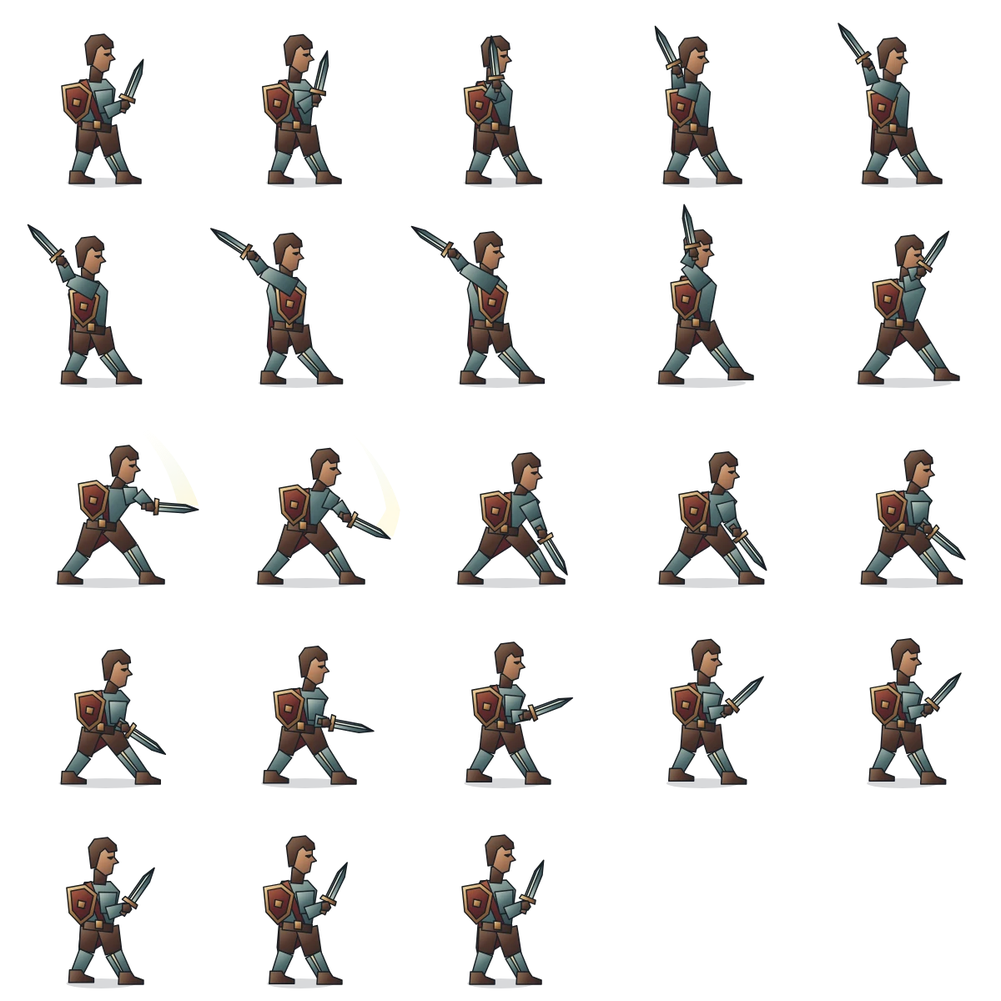
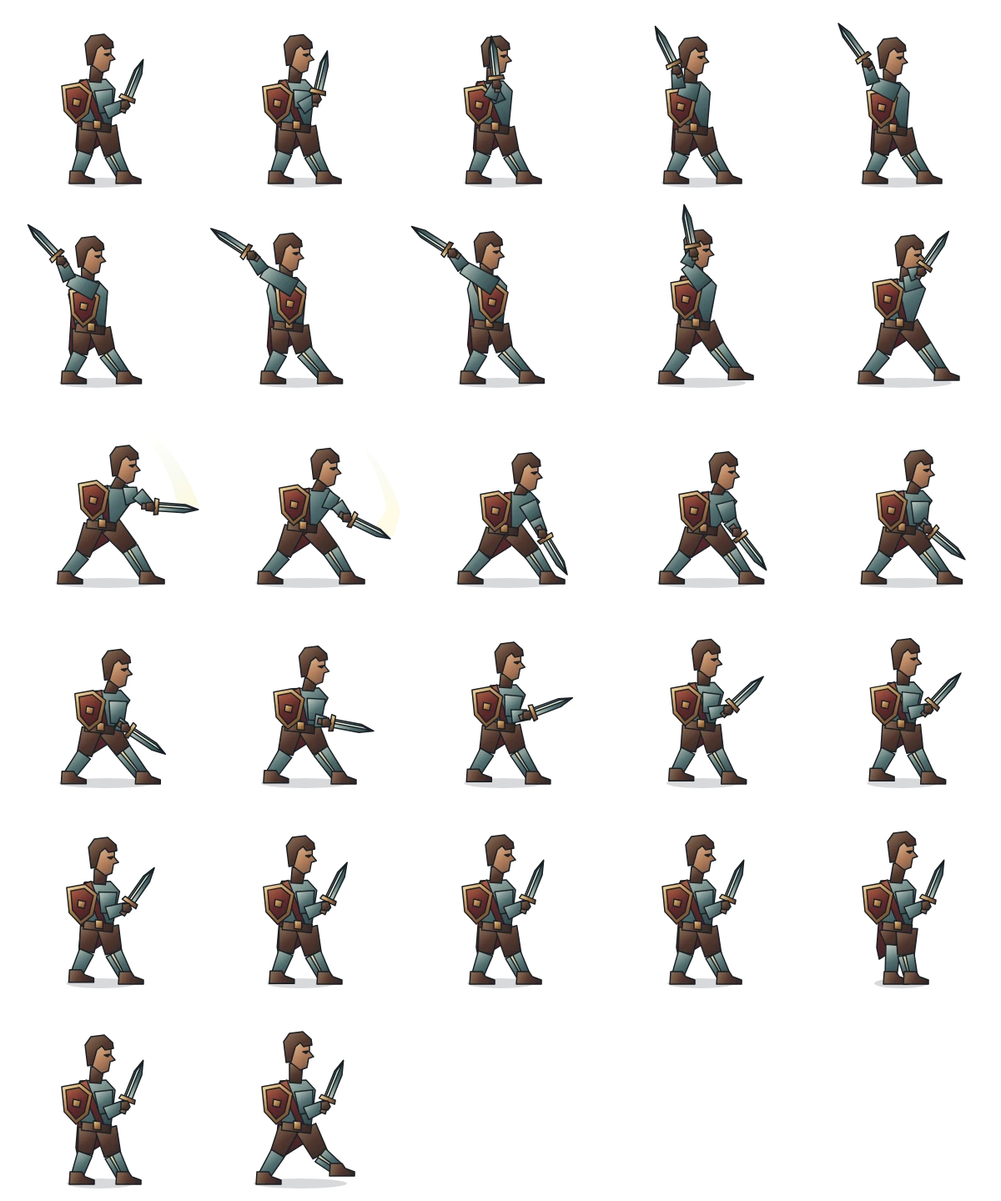
Animate warrior approach and retreat strides

diff --git a/index.html b/index.html
@@ -8,4 +8,4 @@
 <div class="teacher-grid"><section id="teacher-focus-panel" class="teacher-box"><span class="eyebrow">TOPICS & DEPTH</span><h3 id="selected-subject-title">HTML & CSS</h3><label>Bank question depth<select id="teacher-difficulty"><option value="beginner">Introductory</option><option value="intermediate" selected>Introductory + applied</option><option value="advanced">All depths, including challenge</option></select></label><fieldset><legend>Topics within this subject</legend><div id="teacher-topics"></div></fieldset><p class="small">Topics and depth filter the available questions. Use Add to keep your current draft, or Combine to start over.</p><details><summary>Pick individual questions from the selected banks</summary><div id="bank-question-list"></div></details><input id="use-bank" type="checkbox" hidden><div id="generation-area"></div><details id="teacher-import-panel" class="import-options"><summary>Use my own questions · PDF, Word, text, CSV or JSON</summary><p>Import a readable PDF, Word .docx or text file, then review the extracted questions and choose their correct answers. CSV and JSON question sets remain supported. Scanned PDFs, photographs and older .doc files are not supported in this version.</p><p class="small">Documents open a review step where you can replace the draft or add questions. CSV/JSON sets open a validated preview. Add to the assignment or save a copy without replacing the draft.</p><div class="preset-buttons"><button id="import-lesson">Load question file</button><button id="question-template">Download CSV template</button></div><label>Selected import file<input type="file" id="teacher-file" accept=".pdf,.docx,.txt,.csv,.json"></label><button id="read-selected-file">Read selected file</button><p class="small">Document importer v1.1 · Choose a file, then click Read selected file if it does not open automatically.</p><p id="import-status" role="status" aria-live="polite"></p></details></section>
 <section id="teacher-review-panel" class="teacher-box assignment-draft"><span class="eyebrow">3 · REVIEW YOUR ASSIGNMENT</span><label>Assignment name<input id="lesson-name" maxlength="100" value="HTML & CSS practice"></label><strong id="lesson-count"></strong><p id="assignment-source" class="small"></p><p id="teacher-message" role="status" aria-live="polite"></p><details open><summary>Questions, answers & explanations</summary><ol id="lesson-preview"></ol></details><label>Battle difficulty<select id="teacher-pace"><option value="practice">Gentle practice</option><option value="standard" selected>Standard</option><option value="challenge">Challenging battles</option></select></label><div class="preset-buttons"><button id="save-lesson">Save draft on this device</button><button id="export-lesson">Download this set</button><button id="launch-lesson" class="primary">Test this assignment</button></div></section></div>
 <details id="teacher-writing-panel" class="teacher-box"><summary>Write or edit an individual question</summary><div id="custom-list"></div><form id="custom-form"><label>Subject<select id="custom-topic"><option>HTML</option><option>CSS</option><option>Computer basics</option><option>Algorithms</option><option>Programming</option><option>Data</option><option>Networks</option><option>Cybersecurity</option><option>Computing & society</option><option>AI literacy</option><option>3D design</option><option>Math</option></select></label><label>Question<textarea id="custom-text" required maxlength="1000"></textarea></label><div class="choice-inputs"><label>Answer A<input id="choice-0" required maxlength="300"></label><label>Answer B<input id="choice-1" required maxlength="300"></label><label>Answer C<input id="choice-2" required maxlength="300"></label><label>Answer D<input id="choice-3" required maxlength="300"></label></div><label>Correct answer<select id="custom-correct"><option value="0">A</option><option value="1">B</option><option value="2">C</option><option value="3">D</option></select></label><label>Explanation<textarea id="custom-explanation" maxlength="1500"></textarea></label><button id="add-question" type="submit">Add question to draft</button></form></details></section><section id="prologue" class="screen" hidden><span id="player-story-heading" class="eyebrow">YOUR ADVENTURE · CHAPTER 1</span><h1>The Last Light<br>of Asterfall</h1><div id="prologue-party" class="story-party"></div><div id="prologue-text"></div><div id="hero-creation"></div><button id="begin-chapter" class="primary">Begin the Emerald Road →</button></section><section id="arrival" class="screen" hidden><span id="arrival-chapter" class="eyebrow">CHAPTER 1 · A NEW DANGER</span><h2 id="arrival-title"></h2><div id="arrival-scene" class="cinematic-scene"><div id="arrival-party" class="story-party"></div></div><div class="narrative-panel"><strong id="arrival-speaker"></strong><p id="arrival-narration"></p><p id="arrival-danger" class="danger-note"></p><button id="begin-encounter" class="primary" disabled>Face the encounter →</button></div></section><section id="journey" class="screen" hidden><span class="eyebrow">THE ROAD OPENS</span><h2 id="journey-title"></h2><div id="journey-scene" class="cinematic-scene"><div id="journey-party" class="story-party"></div></div><p id="journey-narration" class="narrative-panel" role="status"></p></section><section id="road" class="screen" hidden><div id="road-scene"><div class="road-vignette"></div><div id="road-party" class="story-party"></div><div class="road-caption"><span class="eyebrow">ON THE ROAD</span><h2 id="road-destination"></h2><p id="road-narration" role="status"></p></div></div></section><section id="world" class="screen" hidden><div class="battle-heading"><div><span class="eyebrow">CHAPTER I · EXPLORE</span><h2 id="world-title">Chapter 1 · Forest Path</h2></div><span id="world-stats"></span></div><label class="chapter-navigation">Region<select id="chapter-picker"></select></label><div id="map-viewport" class="map-scroll"><div id="world-overview" aria-label="Region overview"><div id="overview-view"></div></div><div id="forest-map"><svg viewBox="0 0 100 100" preserveAspectRatio="none" aria-hidden="true"><path d="M14 78L36 54L57 30L81 17M14 78L35 86M36 54L15 36M36 54L57 77M57 30L69 51"/></svg><div id="mouse-destination" hidden aria-hidden="true"></div><div id="boss-route-gate" hidden><span>⚿</span><strong id="boss-gate-label">Sealed passage</strong></div><div id="map-nodes"></div><div id="forest-patrol" class="patrol-mob" hidden aria-label="Wandering briar imp"></div><div id="map-party" class="map-party" aria-label="Your party"></div></div></div><div id="world-controls" aria-label="Map controls and information"><div id="world-control-copy"><p id="world-objective"></p><div id="explore-tip" role="status">Click a path to walk, or use WASD / arrow keys.</div><button id="pinned-quest" hidden aria-label="Pinned quest; open quest board"></button></div><div id="explore-pad" aria-label="Walking controls"><button data-direction="up" id="walk-up" aria-label="Walk north">▲</button><button data-direction="left" id="walk-left" aria-label="Walk west">◀</button><button data-direction="down" id="walk-down" aria-label="Walk south">▼</button><button data-direction="right" id="walk-right" aria-label="Walk east">▶</button></div><div class="map-toolbar"><span id="world-style" hidden aria-hidden="true"></span><button id="open-map-party">Party</button><button id="open-skill-paths">Skills</button><button id="open-quest-board">Quests</button><button id="world-changes">Changes</button><button id="crypt-interact" hidden>Search nearby · E</button><span id="crypt-map-progress" hidden role="status"></span><span id="map-travel-status" role="status" aria-live="polite"></span></div></div><dialog id="map-dialog" aria-label="Map event and party"><button id="close-map-dialog" class="map-dialog-close">Back to map ×</button><nav id="camp-shortcuts" aria-label="Camp menu sections"><button id="camp-go-party">Party</button><button id="camp-go-roster">Companions</button><button id="camp-go-equipment">Equipment</button><button id="camp-go-skills">Skills</button><button id="camp-go-forge">Forge</button><button id="camp-go-quests">Quests</button></nav><div class="world-grid"><section id="map-location-panel" class="teacher-box"><h3 id="location-name">Choose your path</h3><p id="location-copy">Select an open destination on the map. Optional paths offer supplies and upgrades.</p><button id="travel" hidden class="primary" disabled>Travel here →</button><p id="world-message" role="status"></p><div id="merchant-stock" hidden></div><div id="moonwell-choices" hidden><p>A forest spirit is bound inside the Moonwell. What will you do?</p><button id="moonwell-blessing">Accept its blessing · full heal + potion</button><button id="moonwell-free">Free the spirit · partial heal + help against the Guardian</button></div></section><section id="map-party-panel" class="teacher-box"><h3>Your party</h3><section id="camp-quest-board"></section><div id="party-roster"></div><section id="skill-paths" aria-labelledby="skill-paths-heading"></section><section id="equipment-inventory"></section><section id="equipment-forge"></section><div id="party-talents"></div><div id="world-party"></div><div id="loot-inventory"></div><div class="preset-buttons"><button id="camp-rest">Rest at camp</button><button id="map-potion">Use healing potion</button></div><p id="pack-summary"></p><details><summary>Quest journal & treasures</summary><div id="quest-journal"></div></details></section></div></dialog></section><section id="battle" class="screen" hidden><div class="battle-heading"><div><span id="battle-chapter" class="eyebrow">CHAPTER 1</span><h2 id="encounter-name"></h2></div><div id="wallet"></div></div><div id="trail" aria-label="Chapter progress"></div><div class="battle-help"><span>Your hero’s moves appear each turn. Choose one, then answer to act.</span></div><div id="arena"><div id="trial-ambient" aria-hidden="true"></div><aside id="trial-monitor" hidden><span id="trial-performance" role="status">Measuring…</span><label>Effects<select id="trial-quality"><option value="standard">Standard</option><option value="light">Light</option></select></label><button id="trial-report">Download results</button></aside><div id="enemy-warning" role="status"></div><aside id="enemy-read" hidden role="status" aria-live="polite" aria-label="Enemy intentions"></aside><div id="boss-status" hidden role="status"></div><div id="boss-phase-announcement" aria-live="polite"></div><details id="battle-insight"><summary>Enemy weaknesses & power</summary><div id="enemy-traits" role="status"></div><div id="combat-readiness" role="status"></div><p id="enemy-attack-details"></p></details><div class="mist"></div><div id="heroes"></div><div id="enemy"><div id="enemy-art"></div><div class="enemy-label"><strong id="enemy-name"></strong><div class="bar"><i id="enemy-bar"></i></div><span id="enemy-hp"></span></div></div><section id="question-panel"><div class="question-top"><span id="school" class="eyebrow"></span><span id="turn"></span></div><h3 id="question"></h3><div id="answers"></div><p id="feedback" role="status" aria-live="polite"></p><button id="next-question" hidden class="primary">Next question →</button></section><section id="encounter-objective" hidden aria-label="Encounter objective"><strong id="objective-title"></strong><span id="objective-progress" role="status" aria-live="polite"></span><small id="objective-hint"></small></section><img id="objective-prop" hidden alt=""><div id="objective-event" role="status" aria-live="polite"></div><div id="effects" aria-hidden="true"></div><div id="hero-command-menu" hidden role="dialog" aria-label="Hero actions"><button id="hero-menu-close" aria-label="Close hero actions">×</button><strong id="hero-menu-title"></strong><p id="hero-menu-status"></p><div id="hero-menu-actions"></div><details id="hero-action-guide"><summary>Move details &amp; hero bonuses</summary><p id="hero-menu-full-status"></p><p id="hero-role-benefit" class="hero-role-benefit"></p><p id="hero-path-status" class="skill-battle-status" hidden></p><div id="hero-menu-descriptions"></div></details><p id="hero-menu-note" role="status"></p></div><div id="party"></div><div id="battle-plan" role="status" aria-live="polite"></div></div><section id="enemy-defense" hidden aria-label="Incoming attack"><strong id="defense-title"></strong><p id="defense-message" role="status"></p><div id="defense-history" role="status"></div><button id="attack-cue" type="button" aria-label="Defense timing"><svg class="defense-rings" viewBox="0 0 140 140" aria-hidden="true"><circle data-ring="target" cx="70" cy="70" r="30.6" stroke-width="12.4"/><circle data-ring="perfect" cx="70" cy="70" r="27.6" stroke-width="4"/><circle data-ring="moving" cx="70" cy="70" r="64"/></svg><span id="attack-cue-action" aria-hidden="true"></span><strong id="attack-cue-phase" class="defense-sr-only">Watch the ring</strong></button><div id="block-meter" hidden role="progressbar" aria-label="Block timing" aria-valuemin="0" aria-valuemax="100" aria-valuenow="0"><span class="guard-zone"></span><span class="perfect-zone"></span><i id="block-marker"></i></div><button id="block-button" class="primary">↓ Duck</button><button id="jump-button">↑ Jump</button><button id="dodge-button">← Dodge</button><button id="parry-button">→ Parry</button><button id="take-hit" hidden>Take the hit</button></section><details id="battle-tactics" hidden><summary>Party tactics & healing</summary><section id="battle-commands"><div><strong id="combat-intent"></strong><p id="focus-status"></p></div><label>Acting hero<select id="acting-hero"></select></label><label>Choose your action<select id="combat-action"><option value="attack">Basic attack · gain 1 focus</option><option value="skill">Hero skill · costs 2 focus</option><option value="special">Signature attack · 2 focus</option><option value="relic">Relic power · 3 focus</option><option value="team">Role teamwork · 2 focus</option><option value="path-0">Path ability 1</option><option value="path-1">Path ability 2</option><option value="path-2">Path ability 3</option><option value="objective">Encounter objective · no attack</option><option value="guard">Guarding strike · prepare a shield</option><option value="channel">Channel · gain 2 focus, no attack</option></select></label><label>Healing target<select id="healing-target"></select></label><button id="battle-potion">Use healing potion</button></section></details><details id="enemy-story" class="enemy-story"><summary>About this danger</summary><p id="battle-narration"></p></details></section>
-<section id="result" class="screen" hidden><span id="result-eyebrow" class="eyebrow"></span><h1 id="result-title"></h1><p id="result-copy"></p><div id="reward"></div><section id="rune-forge" class="teacher-box" hidden><h3>Rune forge · improve your party</h3><p id="rune-balance"></p><p class="small">Power adds +3 attack damage per rank. Vitality adds +8 maximum HP per rank. Each hero can reach rank 3 in each. Ranks cost 1, 2, then 3 runes.</p><div id="rune-upgrades"></div></section><button id="advance" class="primary"></button><button id="menu">Title screen</button></section><footer>The Last Light of Asterfall <span class="release-label">Open exploration · Your map markings</span><span id="save-status">Saves on this device</span></footer></main><script src="region-loader.js?v=0c1b4c66908d"></script><script src="boot.js?v=2a7795114682"></script><script src="questions.js?v=8632b32758e3"></script><script src="cs-bank.js?v=d2e59700a057"></script><script src="teacher-subjects.js?v=915b0bc4735e"></script><script src="express-sets.js?v=c3aa729326d0"></script><script src="characters.js?v=45515ceb709f"></script><script src="music-data.js?v=487d750dea2d"></script><script src="campaign.js?v=e2018ea8e5d0"></script><script src="story.js?v=a82fd3d169ac"></script><script src="tactics.js?v=b10bbf7b0129"></script><script src="journey.js?v=7cd085f56374"></script><script src="map-routes.js?v=3dc1f2456ffc"></script><script src="practice.js?v=7539620934b0"></script><script src="enemy-animations.js?v=189d1191b2e2"></script><script src="defense.js?v=425953c6013b"></script><script src="coast.js?v=2c587ebb2ea6"></script><script src="exploration.js?v=ff911e9b8137"></script><script src="visual-world.js?v=79c0b4aebe7a"></script><script src="visual-trial.js?v=4a3962d13f73"></script><script src="party-trail.js?v=3f78f121bcf7"></script><script src="defense-animations.js?v=7ea345959766"></script><script src="mouse-navigation.js?v=31a32fad2cc4"></script><script src="attack-styles.js?v=fcfbab3ffdf9"></script><script src="relic-animations.js?v=886804c2c7d5"></script><script src="loot.js?v=4580ed30161d"></script><script src="forest-world.js?v=219b53a0c5f1"></script><script src="forest-renderer.js?v=f5eb36ab3cac"></script><script src="forest-art.js?v=28b284b43be8"></script><script src="region-art.js?v=9cb63921c67f"></script><script src="dungeon.js?v=b122af619a06"></script><script src="combat-depth.js?v=b4e4b5a9f190"></script><script src="boss-chapters.js?v=2fa8e4f431cb"></script><script src="enemy-expansion.js?v=9f09e05a10b8"></script><script src="combat-timing.js?v=2d6a9a0d7a5b"></script><script src="roster.js?v=1691b7262e9a"></script><script src="progression.js?v=8d88fea54259"></script><script src="equipment-loot.js?v=13a52db45b0a"></script><script src="quest-board.js?v=61f7c69088ef"></script><script src="sound-data.js?v=8743f47e4a63"></script><script src="recorded-audio.js?v=human-sword1"></script><script src="frostmine.js?v=1114d7eb8138"></script><script src="story-pacing.js?v=f117b87ef819"></script><script src="painted-thorin-data.js?v=2d96a5c1d2c6"></script><script src="painted-brom-data.js?v=d9845c590c9c"></script><script src="painted-lira-data.js?v=ec4942974537"></script><script src="painted-seren-data.js?v=accde54f76db"></script><script src="painted-travel-data.js?v=7774666a7dfe"></script><script src="hero-art-trial.js?v=1858f324e576"></script><script src="combat-presentation.js?v=human-sword1"></script><script src="side-adventures.js?v=b7eaf8b43590"></script><script src="map-variety.js?v=ada3d43e040c"></script><script src="side-guardian-data.js?v=c33bf7e05de9"></script><script src="side-guardians.js?v=0e45e62c421c"></script><script src="interactive-exploration.js?v=a71caeb81eb9"></script><script src="equipment-effects.js?v=126b974aac12"></script><script src="party-teamwork.js?v=3d7555189fa3"></script><script src="encounter-objectives.js?v=2bd2fa3cb820"></script><script src="world-consequences.js?v=697c898989f4"></script><script src="combat-telegraph.js?v=3878dd89dacd"></script><script src="rootbound-exploration.js?v=e318c75a0033"></script><script src="open-painted-maps.js?v=00852b6e20f8"></script><script src="highlands.js?v=b0c8c05f4ea4"></script><script src="painted-boundaries.js?v=9258f5ab6d86"></script><script src="roaming-world.js?v=4631d19dc45d"></script><script src="search-sites.js?v=c5b093689643"></script><script src="item-art.js?v=8a8f2fc47dd3"></script><script src="party-v3-data.js?v=ceb710f3b44f"></script><script src="human-heroes-data.js?v=2b3b2de9892b"></script><script src="party-upgrade.js?v=f121eedcc70c"></script><script src="layered-foliage.js?v=3e0177b3a4d1"></script><script src="forest-discoveries.js?v=7f23651df4ea"></script><script src="regional-discoveries.js?v=f07880b85259"></script><script src="role-mastery.js?v=61caf8ccf63a"></script><script src="skill-paths.js?v=e796c71edf3d"></script><script src="skill-path-effects.js?v=9b9661016aa7"></script><script src="enemy-behavior.js?v=de61d48184dd"></script><script src="outdoor-geography.js?v=b6c748f7c16e"></script><script src="side-geography-data.js?v=cc8840e0c8d4"></script><script src="side-geography.js?v=eee0dd571d34"></script><script src="exploration-layout.js?v=4b320e2ca6f6"></script><script src="authored-floors.js?v=a372257362b2"></script><script src="exploration-polish.js?v=2981de97faa8"></script><script src="integrated-map-art.js?v=c755711d52ea"></script><script src="equipment-appearance.js?v=a852935156e6"></script><script src="navigation-floors.js?v=786c5b691c48"></script><script src="progress-storage.js?v=20261031-audit1"></script><script src="journey-guide.js?v=ecabe6818ca1"></script><script src="visual-polish.js?v=7e7f1fbb2b00"></script><script src="battle-refresh.js?v=62aeae25d1b6"></script><script src="battle-hud.js?v=f3bb8359f0db"></script><script src="math-models.js?v=2feb4d6e9fb8"></script><script src="teacher-reports.js?v=356eeefd174d"></script><script src="exploration-enrichment.js?v=7cb03af2e431"></script><script src="skill-tree-view.js?v=f2be7c3b5df8"></script><script src="forest-adventure.js?v=fbea32dadb30"></script><script src="forest-direction.js?v=b9124928a05d"></script><script src="map-traversal.js?v=b08efe2ddf74"></script><script src="route-guide.js?v=d3cd6d0a77ec"></script><script src="forest-visuals.js?v=3b2eae880b7a"></script><script src="forest-payoffs.js?v=83d55c9adffe"></script><script src="forest-characters.js?v=9ed7bb399edc"></script><script src="forest-atmosphere.js?v=dc53046e9350"></script><script src="forest-heroes.js?v=4c736ef48a4d"></script><script src="forest-enemy-tells.js?v=02377254db7f"></script><script src="forest-patrols.js?v=491e29f3b2ed"></script><script src="forest-fast-play.js?v=1b0039825a4e"></script><script src="built-map-preview.js?v=47319f655979"></script><script src="wildwood-layout.js?v=6babf453461f"></script><script src="wildwood-board.js?v=8a247e796550"></script><script src="human-sword-attack.js?v=1"></script><script src="game.js?v=human-sword1"></script><script src="teacher.js?v=df44ff2cd450"></script><script src="generator.js?v=406c9d6ca7c6"></script><script src="web-skill-generator.js?v=d2493af52189"></script><script src="math-generator.js?v=dca7238744ae"></script><script src="lesson-links.js?v=a288206e125d"></script><script src="express-ui.js?v=4750e6fdab8e"></script><script src="document-import.js?v=71e0e8bc89ee"></script><script src="teacher-setup.js?v=bce75069db3d"></script><script src="teacher-playtest.js?v=bc5f16e56560"></script><script src="ohio-standards-data.js?v=a314d1776b18"></script><script src="ohio-content.js?v=ef0c0c6dcdf5"></script><script src="ohio-subject-links.js?v=e14d83bfd018"></script><script src="middle-school-math.js?v=5f6064668db8"></script><script src="ohio-standards.js?v=085610e11168"></script><script src="teacher-workspace.js?v=fee5a454da0b"></script><script src="teacher-content.js?v=2d1a2d733efe"></script><script src="teacher-sets.js?v=47e9515b86a0"></script></body></html>
+<section id="result" class="screen" hidden><span id="result-eyebrow" class="eyebrow"></span><h1 id="result-title"></h1><p id="result-copy"></p><div id="reward"></div><section id="rune-forge" class="teacher-box" hidden><h3>Rune forge · improve your party</h3><p id="rune-balance"></p><p class="small">Power adds +3 attack damage per rank. Vitality adds +8 maximum HP per rank. Each hero can reach rank 3 in each. Ranks cost 1, 2, then 3 runes.</p><div id="rune-upgrades"></div></section><button id="advance" class="primary"></button><button id="menu">Title screen</button></section><footer>The Last Light of Asterfall <span class="release-label">Open exploration · Your map markings</span><span id="save-status">Saves on this device</span></footer></main><script src="region-loader.js?v=0c1b4c66908d"></script><script src="boot.js?v=2a7795114682"></script><script src="questions.js?v=8632b32758e3"></script><script src="cs-bank.js?v=d2e59700a057"></script><script src="teacher-subjects.js?v=915b0bc4735e"></script><script src="express-sets.js?v=c3aa729326d0"></script><script src="characters.js?v=45515ceb709f"></script><script src="music-data.js?v=487d750dea2d"></script><script src="campaign.js?v=e2018ea8e5d0"></script><script src="story.js?v=a82fd3d169ac"></script><script src="tactics.js?v=b10bbf7b0129"></script><script src="journey.js?v=7cd085f56374"></script><script src="map-routes.js?v=3dc1f2456ffc"></script><script src="practice.js?v=7539620934b0"></script><script src="enemy-animations.js?v=189d1191b2e2"></script><script src="defense.js?v=425953c6013b"></script><script src="coast.js?v=2c587ebb2ea6"></script><script src="exploration.js?v=ff911e9b8137"></script><script src="visual-world.js?v=79c0b4aebe7a"></script><script src="visual-trial.js?v=4a3962d13f73"></script><script src="party-trail.js?v=3f78f121bcf7"></script><script src="defense-animations.js?v=7ea345959766"></script><script src="mouse-navigation.js?v=31a32fad2cc4"></script><script src="attack-styles.js?v=fcfbab3ffdf9"></script><script src="relic-animations.js?v=886804c2c7d5"></script><script src="loot.js?v=4580ed30161d"></script><script src="forest-world.js?v=219b53a0c5f1"></script><script src="forest-renderer.js?v=f5eb36ab3cac"></script><script src="forest-art.js?v=28b284b43be8"></script><script src="region-art.js?v=9cb63921c67f"></script><script src="dungeon.js?v=b122af619a06"></script><script src="combat-depth.js?v=b4e4b5a9f190"></script><script src="boss-chapters.js?v=2fa8e4f431cb"></script><script src="enemy-expansion.js?v=9f09e05a10b8"></script><script src="combat-timing.js?v=2d6a9a0d7a5b"></script><script src="roster.js?v=1691b7262e9a"></script><script src="progression.js?v=8d88fea54259"></script><script src="equipment-loot.js?v=13a52db45b0a"></script><script src="quest-board.js?v=61f7c69088ef"></script><script src="sound-data.js?v=8743f47e4a63"></script><script src="recorded-audio.js?v=human-sword1"></script><script src="frostmine.js?v=1114d7eb8138"></script><script src="story-pacing.js?v=f117b87ef819"></script><script src="painted-thorin-data.js?v=2d96a5c1d2c6"></script><script src="painted-brom-data.js?v=d9845c590c9c"></script><script src="painted-lira-data.js?v=ec4942974537"></script><script src="painted-seren-data.js?v=accde54f76db"></script><script src="painted-travel-data.js?v=7774666a7dfe"></script><script src="hero-art-trial.js?v=1858f324e576"></script><script src="combat-presentation.js?v=human-sword1"></script><script src="side-adventures.js?v=b7eaf8b43590"></script><script src="map-variety.js?v=ada3d43e040c"></script><script src="side-guardian-data.js?v=c33bf7e05de9"></script><script src="side-guardians.js?v=0e45e62c421c"></script><script src="interactive-exploration.js?v=a71caeb81eb9"></script><script src="equipment-effects.js?v=126b974aac12"></script><script src="party-teamwork.js?v=3d7555189fa3"></script><script src="encounter-objectives.js?v=2bd2fa3cb820"></script><script src="world-consequences.js?v=697c898989f4"></script><script src="combat-telegraph.js?v=3878dd89dacd"></script><script src="rootbound-exploration.js?v=e318c75a0033"></script><script src="open-painted-maps.js?v=00852b6e20f8"></script><script src="highlands.js?v=b0c8c05f4ea4"></script><script src="painted-boundaries.js?v=9258f5ab6d86"></script><script src="roaming-world.js?v=4631d19dc45d"></script><script src="search-sites.js?v=c5b093689643"></script><script src="item-art.js?v=8a8f2fc47dd3"></script><script src="party-v3-data.js?v=ceb710f3b44f"></script><script src="human-heroes-data.js?v=2b3b2de9892b"></script><script src="party-upgrade.js?v=f121eedcc70c"></script><script src="layered-foliage.js?v=3e0177b3a4d1"></script><script src="forest-discoveries.js?v=7f23651df4ea"></script><script src="regional-discoveries.js?v=f07880b85259"></script><script src="role-mastery.js?v=61caf8ccf63a"></script><script src="skill-paths.js?v=e796c71edf3d"></script><script src="skill-path-effects.js?v=9b9661016aa7"></script><script src="enemy-behavior.js?v=de61d48184dd"></script><script src="outdoor-geography.js?v=b6c748f7c16e"></script><script src="side-geography-data.js?v=cc8840e0c8d4"></script><script src="side-geography.js?v=eee0dd571d34"></script><script src="exploration-layout.js?v=4b320e2ca6f6"></script><script src="authored-floors.js?v=a372257362b2"></script><script src="exploration-polish.js?v=2981de97faa8"></script><script src="integrated-map-art.js?v=c755711d52ea"></script><script src="equipment-appearance.js?v=a852935156e6"></script><script src="navigation-floors.js?v=786c5b691c48"></script><script src="progress-storage.js?v=20261031-audit1"></script><script src="journey-guide.js?v=ecabe6818ca1"></script><script src="visual-polish.js?v=7e7f1fbb2b00"></script><script src="battle-refresh.js?v=62aeae25d1b6"></script><script src="battle-hud.js?v=f3bb8359f0db"></script><script src="math-models.js?v=2feb4d6e9fb8"></script><script src="teacher-reports.js?v=356eeefd174d"></script><script src="exploration-enrichment.js?v=7cb03af2e431"></script><script src="skill-tree-view.js?v=f2be7c3b5df8"></script><script src="forest-adventure.js?v=fbea32dadb30"></script><script src="forest-direction.js?v=b9124928a05d"></script><script src="map-traversal.js?v=b08efe2ddf74"></script><script src="route-guide.js?v=d3cd6d0a77ec"></script><script src="forest-visuals.js?v=3b2eae880b7a"></script><script src="forest-payoffs.js?v=83d55c9adffe"></script><script src="forest-characters.js?v=9ed7bb399edc"></script><script src="forest-atmosphere.js?v=dc53046e9350"></script><script src="forest-heroes.js?v=4c736ef48a4d"></script><script src="forest-enemy-tells.js?v=02377254db7f"></script><script src="forest-patrols.js?v=491e29f3b2ed"></script><script src="forest-fast-play.js?v=1b0039825a4e"></script><script src="built-map-preview.js?v=47319f655979"></script><script src="wildwood-layout.js?v=6babf453461f"></script><script src="wildwood-board.js?v=8a247e796550"></script><script src="human-sword-attack.js?v=2"></script><script src="game.js?v=human-sword1"></script><script src="teacher.js?v=df44ff2cd450"></script><script src="generator.js?v=406c9d6ca7c6"></script><script src="web-skill-generator.js?v=d2493af52189"></script><script src="math-generator.js?v=dca7238744ae"></script><script src="lesson-links.js?v=a288206e125d"></script><script src="express-ui.js?v=4750e6fdab8e"></script><script src="document-import.js?v=71e0e8bc89ee"></script><script src="teacher-setup.js?v=bce75069db3d"></script><script src="teacher-playtest.js?v=bc5f16e56560"></script><script src="ohio-standards-data.js?v=a314d1776b18"></script><script src="ohio-content.js?v=ef0c0c6dcdf5"></script><script src="ohio-subject-links.js?v=e14d83bfd018"></script><script src="middle-school-math.js?v=5f6064668db8"></script><script src="ohio-standards.js?v=085610e11168"></script><script src="teacher-workspace.js?v=fee5a454da0b"></script><script src="teacher-content.js?v=2d1a2d733efe"></script><script src="teacher-sets.js?v=47e9515b86a0"></script></body></html>

diff --git a/human-sword-attack.js b/human-sword-attack.js
@@ -4,7 +4,7 @@
  const directory = 'assets/warrior/human-warrior-';
  const battleImage = directory + 'battle.webp?v=1';
  const travelImage = directory + 'travel.webp?v=1';
- const swordImage = directory + 'sword.webp?v=1';
+ const swordImage = directory + 'sword.webp?v=2';
  const member = 'human-warrior';
  const frameRects = Array.from({length:16}, (_, frame) => ({
   x:frame % 4 * 240, y:Math.floor(frame / 4) * 240, w:240, h:240, dx:0, dy:0, scale:1.5
@@ -31,11 +31,15 @@
  };
 
  const cell = 240;
+ const columns = 5;
+ const rows = 6;
  const step = 32;
  const release = 8 * step;
  const contact = 10 * step;
  const duration = 23 * step;
+ const walkStart = 23;
  let atlas;
+ let loading;
  let ready = false;
 
  window.HumanSwordAttack = {
@@ -44,12 +48,17 @@
   },
 
   preload(renderer) {
-   if (atlas || MotionPreference.reduced() || !this.supports(renderer) || typeof Image !== 'function') return;
+   if (MotionPreference.reduced() || !this.supports(renderer) || typeof Image !== 'function') return;
+   if (loading) return loading;
    const image = new Image();
    image.decoding = 'async';
    image.src = swordImage;
    atlas = image;
-   image.decode().then(() => {ready = image.naturalWidth === 1200 && image.naturalHeight === 1200;}, () => {});
+   loading = image.decode?.().then(() => {
+    ready = image.naturalWidth === columns * cell && image.naturalHeight === rows * cell;
+    return ready;
+   }, () => false);
+   return loading;
   },
 
   async play({renderer,target,audio,onImpact,valid}) {
@@ -68,37 +77,59 @@
    const actorBox = portrait.getBoundingClientRect();
    const enemyBox = target.getBoundingClientRect();
    const side = Math.min(actorBox.width,actorBox.height);
+   if (side <= 0) return false;
    const reach = (237 / cell - .5) * side;
    const distance = Math.max(0, enemyBox.left + enemyBox.width * .31 - actorBox.left - actorBox.width / 2 - reach);
+   const lunge = Math.min(distance,side * .16);
+   const approach = distance - lunge;
+   const travelTime = approach > 0 ? Math.min(360,Math.max(150,approach / side * 165)) : 0;
    const saved = {translate:origin.style.translate, zIndex:origin.style.zIndex, visibility:portrait.style.visibility};
    let lastFrame = -1;
    let released = false;
    let hit = false;
    let started;
    const nextFrame = () => new Promise(resolve => requestAnimationFrame(resolve));
+   const draw = frame => {
+    if(frame === lastFrame) return;
+    context.clearRect(0,0,cell,cell);
+    context.drawImage(atlas,frame % columns * cell,Math.floor(frame / columns) * cell,cell,cell,0,0,cell,cell);
+    lastFrame = frame;
+   };
 
    try {
     origin.append(canvas);
     portrait.style.visibility = 'hidden';
     origin.style.zIndex = '4';
-    origin.dataset.swordPhase = 'windup';
+    origin.dataset.swordPhase = travelTime ? 'approach' : 'windup';
     while (valid() && origin.isConnected) {
      const now = await nextFrame();
      if (!valid() || !origin.isConnected) break;
      started ??= now;
-     const elapsed = Math.min(now - started, duration);
-     // Keep the release and contact frames visible even when rendering misses a frame.
-     const time = !released && elapsed >= release ? release : !hit && elapsed >= contact ? contact : elapsed;
-     const frame = Math.min(22, Math.floor(time / step));
-     if (frame !== lastFrame) {
-      context.clearRect(0,0,cell,cell);
-      context.drawImage(atlas,frame % 5 * cell,Math.floor(frame / 5) * cell,cell,cell,0,0,cell,cell);
-      lastFrame = frame;
+     const elapsed = now - started;
+     if (elapsed < travelTime) {
+      draw(walkStart + Math.floor(elapsed / 65) % 4);
+      origin.style.translate = approach * elapsed / travelTime + 'px';
+      continue;
      }
+
+     const attackTime = Math.min(elapsed - travelTime,duration);
+     // Keep the release and contact frames visible even when rendering misses a frame.
+     const time = !released && attackTime >= release ? release : !hit && attackTime >= contact ? contact : attackTime;
+     if (time === duration && travelTime) {
+      const retreat = Math.min(travelTime,elapsed - travelTime - duration);
+      if (origin.dataset.swordPhase !== 'retreat') origin.dataset.swordPhase = 'retreat';
+      draw(walkStart + (4 - Math.floor(retreat / 65) % 4) % 4);
+      origin.style.translate = approach * (1 - retreat / travelTime) + 'px';
+      if (retreat === travelTime) break;
+      continue;
+     }
+
+     draw(Math.min(walkStart - 1,Math.floor(time / step)));
+     if (origin.dataset.swordPhase === 'approach') origin.dataset.swordPhase = 'windup';
      const progress = time < contact ? Math.max(0,(time-96)/(contact-96)) :
       Math.max(0,1-(time-contact-76)/(duration-contact-76));
      const slide = Math.min(1,progress);
-     origin.style.translate = distance * slide * slide * (3-2*slide) + 'px';
+     origin.style.translate = approach + lunge * slide * slide * (3-2*slide) + 'px';
      if (!released && time === release) {
       released = true;
       origin.dataset.swordPhase = 'swing';
@@ -109,7 +140,7 @@
       origin.dataset.swordPhase = 'impact';
       audio?.impact('sword',.25);
       await onImpact?.();
-     } else if (hit) origin.dataset.swordPhase = 'recovery';
+     } else if (origin.dataset.swordPhase === 'impact') origin.dataset.swordPhase = 'recovery';
      if (time === duration) break;
     }
     return hit;

diff --git a/HUMAN-WARRIOR-ANIMATION.md b/HUMAN-WARRIOR-ANIMATION.md
@@ -17,10 +17,10 @@ The sword clip uses Alden's standard sword and shield. With loot gear equipped, 
 ## Author and extend
 
 1. Draw a clean full-body silhouette with a consistent ground line, hand grips, facing and scale. Keep leg, hip, shoulder, wrist and weapon motion in the source. Alden uses a 240 × 240 cell at a shared ground line of y=220. The guard at the beginning and end matches the idle drawing.
-2. Author named beats and test the silhouette at battle size. Alden gathers weight during the opening 256 ms, releases on frame 8, connects on frame 10 at 320 ms and returns to guard by 736 ms. The contact cell samples the fully extended blade pose. The transparent blade trail is baked into the swing cells.
-3. Run `node tools/bake-warrior.cjs` using desktop Chrome. Set `CHROME_PATH` for a different installation. The script writes five transparent WebP atlases to `assets/warrior/`. Battle and travel have separate weaponless sheets for equipment composition. The 1200 × 1200 attack atlas uses 23 cells in a 5 × 5 grid. Bump the versioned URLs in `human-sword-attack.js` when replacing released files.
+2. Author named beats and test the silhouette at battle size. Alden closes long gaps with animated strides, then gathers weight during the opening 256 ms of the swing, releases on frame 8, connects on frame 10 at 320 ms and returns to guard by 736 ms before stepping back. The contact cell samples the fully extended blade pose. The transparent blade trail is baked into the swing cells.
+3. Run `node tools/bake-warrior.cjs` using desktop Chrome. Set `CHROME_PATH` for a different installation. The script writes five transparent WebP atlases to `assets/warrior/`. Battle and travel have separate weaponless sheets for equipment composition. The 1200 × 1440 attack atlas uses 23 swing cells and four stride cells in a 5 × 6 grid. Bump the versioned URLs in `human-sword-attack.js` when replacing released files.
 4. Preload only for the eligible fighter. Copy the active cell into one 240 × 240 overlay canvas. Keep wind-up, swing, contact, and recovery on the same timeline. Use the existing hit callback once at contact so recoil, HP, damage text, sparks and audio agree. Projectiles should call the same callback when they reach the target. In an enemy clip, preserve the defense controller's release window and call its existing impact callback.
 5. For a Dwarf hammer or axe, author shorter planted steps and a contact pose that matches the head of the weapon. For an Elf bow, place the release marker where the string leaves the fingers. For a Wizard, keep the spell origin on the hand or staff. For enemies, build readable wind-ups and separate hurt/defeat states. Keep current fallback poses, score logic and defense timings while replacing individual clips.
-6. Test wrong answers, correct and lethal hits, weapon swaps, still poses, a blocked atlas request, repeat attacks, mobile layout and sound off/on. On a school Chromebook, compare first and repeat strikes against Thorin and look for pauses before contact. This animation adds a roughly 143 KiB download and one decoded 1200 × 1200 sheet (about 5.5 MiB at four bytes per pixel). It uses a single 240 × 240 overlay, with a source rectangle copied at most once per 32 ms pose interval. No skeletal calculations or pixel reads run during a strike.
+6. Test wrong answers, correct and lethal hits, weapon swaps, still poses, a blocked atlas request, repeat attacks, mobile layout and sound off/on. On a school Chromebook, compare first and repeat strikes against Thorin and look for pauses before contact. This animation adds a a roughly 164 KiB WebP download and one decoded 1200 × 1440 sheet (about 6.6 MiB at four bytes per pixel). It uses a single 240 × 240 overlay, with a source rectangle copied at most once per 32 ms pose interval. No skeletal calculations or pixel reads run during a strike.
 
 The experimental branch needs a final visual and audio review on an actual school Chromebook. See [CHROMEBOOK-TRIAL.md](CHROMEBOOK-TRIAL.md).
